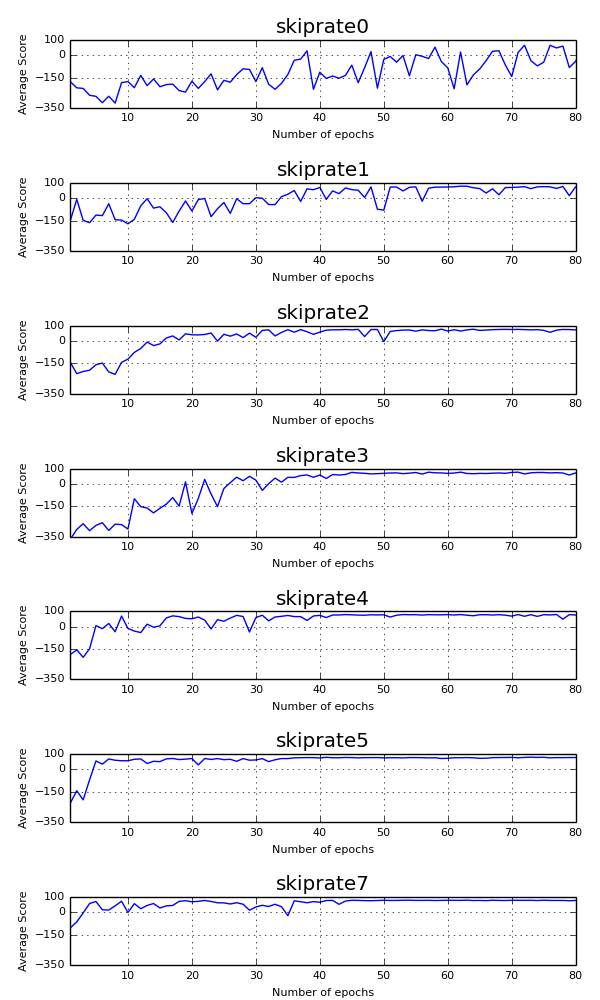
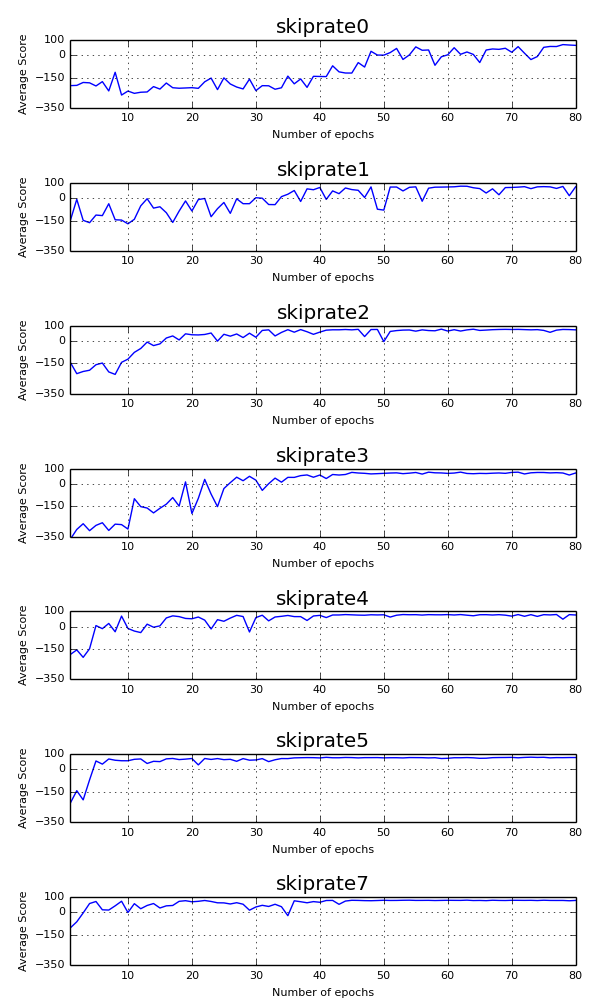
Small changes in chapter 5.
Former-commit-id: 1e4068853c6dafa0f94bc1dc2d3c0c5f680c3fdf
Former-commit-id: c3d51c394bc54bea247c2ecd0a3f53451fee1215
Former-commit-id: ef6985b8bb5eb3e155ba7166d7118853d15836cc

Changed region(s): [[0.18, 0.031, 0.96, 0.124], [0.12, 0.062, 0.15, 0.093]]

diff --git a/thesis/5-experiments.tex b/thesis/5-experiments.tex
@@ -10,8 +10,9 @@ During the experiment agents with varying \emph{skiprates} are to be tested. We 
 Every agent is to run 80 epochs. Each epoch requires performing 5000 learning steps that involve performing an action (observing transition) and running a learning update. After the learning portion of each epoch, 100 random test episodes are conducted and mean score is used for assessment.  
 
 \section{Tested Agent's Design}
-	The agent is heavily inspired by Google DeepMind Atari DQN \cite{mnih-dqn-2015}\cite{mnih-atari-2013} and is conceptually identical to the aformentioned algorithm. Game is modelled as a Markov Decision Process and Q-learning\cite{watkins:mlj92} is used to reach the optimal policy. $\epsilon$-greedy policy with linear $\epsilon$ decay is used to choose actions. Additionally, a technique called experience replay\cite{mnih-dqn-2015} is applied. State is represented by only the most recent image therefore agents have no memory. A convolutional Neural Network is used for approximation of q-values and it is trained with Backpropagation Algorithm\cite{lecun-98b} using Stochastic Gradient Descent with mini-batches. Agent is written in Python and uses Theano\cite{Bastien-Theano-2012}\cite{bergstra+al:2010-scipy} and Lasagne\cite{sander_dieleman_2015_27878} to implement neural networks. 
+	The agent is heavily inspired by Google DeepMind Atari DQN \cite{mnih-dqn-2015}\cite{mnih-atari-2013} and is conceptually identical to the aformentioned algorithm. Game is modelled as a Markov Decision Process and Q-learning\cite{watkins:mlj92} is used to reach the optimal policy. $\epsilon$-greedy policy with linear $\epsilon$ decay is used to choose actions. Additionally, a technique called experience replay\cite{mnih-dqn-2015} is applied. State is represented by only the most recent image therefore agents have no memory. A convolutional Neural Network is used for approximation of q-values and it is trained with Backpropagation Algorithm\cite{lecun-98b} using Stochastic Gradient Descent with mini-batches. Agent is written in Python and uses Theano\cite{Bastien-Theano-2012}\cite{bergstra+al:2010-scipy} and Lasagne\cite{sander_dieleman_2015_27878} to implement neural networks. Neural network's forward and backword passes were computed using a GPU whereas the rest of the code run on the CPU.
 
+\newpage
 \section{Experimental Setup} 
 	\subsection{Operating System and Hardware}
 	\begin{description}
@@ -29,7 +30,7 @@ Every agent is to run 80 epochs. Each epoch requires performing 5000 learning st
 			\includegraphics[scale=0.4]{network.jpg}
 			\caption{Schematic illustration of neural network used for the experiment.}\label{fig:network}
 		\end{figure}
-		 The network consists of two convolutional layers with 32 square filters (7 and 4 pixels wide) each connected to a max-pooling layer with poolsize equal to 2 and rectifiers. Convolutional layers are followed by a fully connected layer with 800 leaky rectified linear units and output layer with 8 linear units coresponding to 8 available actions (combinations of 3 available buttons). The architecture used is rather a modest one, nonetheless it still might be excesively robust for such a simple problem.
+		 Used network consists of two convolutional layers with 32 square filters (7 and 4 pixels wide) each connected to a max-pooling layer with poolsize equal to 2 and rectifiers. Convolutional layers are followed by a fully connected layer with 800 leaky rectified linear units and output layer with 8 linear units coresponding to 8 available actions (combinations of 3 available buttons). The architecture used is rather a modest one, nonetheless it still might be excesively robust for such a simple problem.
 	
 	\subsection{Hyper Parameters}
 		\begin{itemize}
@@ -46,24 +47,22 @@ Every agent is to run 80 epochs. Each epoch requires performing 5000 learning st
 
 \section{Results}
 	\subsection{Numerical Issues}
-		In case of 0 skiprate a major numerical problem was euncountered. Estimated q-values very often rapidly grew to infinite vallues (in the first epoch) which prevented further learning. Quite unexpectedly, increasing resolution from 60x45 to 120x90 eliminated the problem at the cost of longer learning time. Faulty code would be an obvious explenation, however no apparent error has been found yet therefore a conceptually oriented mechanism is also be considered. It is suggested that combination of zero skiprate and low resolution may produce state transitions that incorporate barely distinguishible states. As a consequence each update would signifficantly infalte q-values for each state and rapidly reach infinity. Although changing the resolution seems to have solved the problem, it is not a satisfying solution and one based on theory of q-learning would be much more desirable.
+		In case of 0 skiprate a major numerical problem was euncountered. Estimated q-values usually ($\approx$50\% of runs) rapidly grew to infinite vallues (in the first epoch) which prevented further learning. Quite unexpectedly, increasing resolution from 60x45 to 120x90 eliminated the problem at the cost of longer learning time. Faulty code would be an obvious explenation, however no apparent error has been found yet therefore a conceptually oriented mechanism is also be considered. It is suggested that combination of zero skiprate and low resolution may produce state transitions that incorporate barely distinguishible states. As a consequence each update would signifficantly infalte q-values for each state and rapidly reach infinity. Although changing the resolution seems to have solved the problem, it is not a satisfying solution and one based on theory of q-learning would be much more desirable.
 
-		Agent with skiprate 0 was tested for both resolutions, however the agent with increased resolution is considered separately (see Figure \ref{fig:results_skiprate0}).
-
-		Due to high number of epochs required to get fairly satisfying results with zero skiprate and increased resolution, learning was continued for further 270 epochs to see if it would follow the trend as expected.
+		Skiprate 0 setting was tested for both resolutions, however the agent with increased resolution is considered separately (see Figure \ref{fig:results_skiprate0}).Due to high number of epochs required to get fairly satisfying results with zero skiprate and increased resolution, learning was continued for further 270 epochs to see if it would follow the trend as expected.
 
 	\subsection{Learning Quality}
 		As seen in the Figure \ref{fig:results} all agents reached estimated maximum average score of ~80 or showed trend towards achieving similar value. Watching agents play the scenario proved that agents in fact behave very reasonably. They move towards the target and shoot when it appears in front of them. Occasionally agents fire marginally too soon or stay idle (first available action) throughout whole episode. 
 
 	\subsection{Skiprate Influence}
 		
-		\subsubsection{Learning speed} 
+		\subsubsection*{Learning speed} 
 			\begin{table}
 				\begin{center}
 					\begin{tabular}{ |l | c |}
 						\hline
 						Skiprate & Average epoch duration [s] \\ \hline
-						0 & 51.21 \\ \hline
+						0 & 51.79 \\ \hline
 						1 & 51.83 \\ \hline
 						2 & 52.84 \\ \hline
 						3 & 53.84 \\ \hline
@@ -76,13 +75,13 @@ Every agent is to run 80 epochs. Each epoch requires performing 5000 learning st
 			\end{table}
 			As seen in the Figure \ref{fig:results} higher skiprate leads to quicker (in terms of learning steps) and smoother learning, which was expected as higher skiprate makes consequences of actions more immediate and easier to notice. However, it must be pointed out that epoch's duration slightly increases with raising skiprate (see Table \ref{tab:time_results}). Obiously, such behavior was anticipiated because Doom engine has to process skiprate as many frames for a single state snapshot.
 
-		\subsubsection{Score}
+		\subsubsection*{Score}
 			\begin{table}
 				\begin{center}
 					\begin{tabular}{ |l || c | r |}
 						\hline
 						Skiprate & Best epoch score & Mean of 10 best epochs \\ \hline
-						0 & 74.17 & 72.679 \\ \hline
+						0 & 69.18 & 60.973 \\ \hline
 						1 & 77.84 & 76.187 \\ \hline
 						2 & 79.35 & 77.914 \\ \hline
 						3 & 80.98 & 78.695 \\ \hline
@@ -91,9 +90,11 @@ Every agent is to run 80 epochs. Each epoch requires performing 5000 learning st
 						7 & 81.08 & 80.496 \\ \hline
 					\end{tabular}
 				\end{center}
-				\caption{Influence of skiprate on achieved highscores.}\label{tab:results}
+				\caption{Influence of skiprate highscores achieved in 80 epochs.}\label{tab:results}
 			\end{table}
-			It was also anticipated that higher skiprate would slightly lower scores due to the lack of small-grained control. As seen in Table \ref{tab:results}, just the oposite seems to be true. It is doubtful that too short training is the culprit since most of agents reach signifficant stability in 80 epochs and do not appear to be able to ever transcend achieved highscores. What is more, it was observed that agents with higher skiprates were less prone to irrational behaviours like staying idle or going the oposite way which may coincide with much smoother learning. However, it is suggested that careful fine-tuning of hyper parameters could positively influence learning rate and smoothness. Learning process was especially fuzzy for zero skiprate and increased resolution(see Figure \ref{fig:results_skiprate0}) but it appears that it was slowly converging to the optimum and intensity of ocassional terrible-performance episodes was fading. Further learning (preferably with lowered learning rate) would be neccessary to confirm the hypothesis.
+			It was also anticipated that higher skiprate would slightly lower scores due to the lack of small-grained control. As seen in Table \ref{tab:results}, just the oposite seems to be true. It is doubtful that too short training is the culprit since most of agents reach signifficant stability in 80 epochs and do not appear to be able to ever transcend achieved highscores (at least for skiprates $\geq$ 2). What is more, it was observed that agents with higher skiprates were less prone to irrational behaviours like staying idle or going the oposite way which may coincide with much smoother learning. However, it is suggested that careful fine-tuning of hyper parameters could positively influence learning rate and smoothness. 
+
+			Learning process was especially fuzzy for zero skiprate with increased resolution (see Figure \ref{fig:results_skiprate0}) but it appears that it was slowly converging to the optimum and intensity of ocassional terrible-performance episodes was fading. Further learning (preferably with lowered learning rate) would be neccessary to confirm the hypothesis.
 	
 	\begin{figure}
 		\centering
